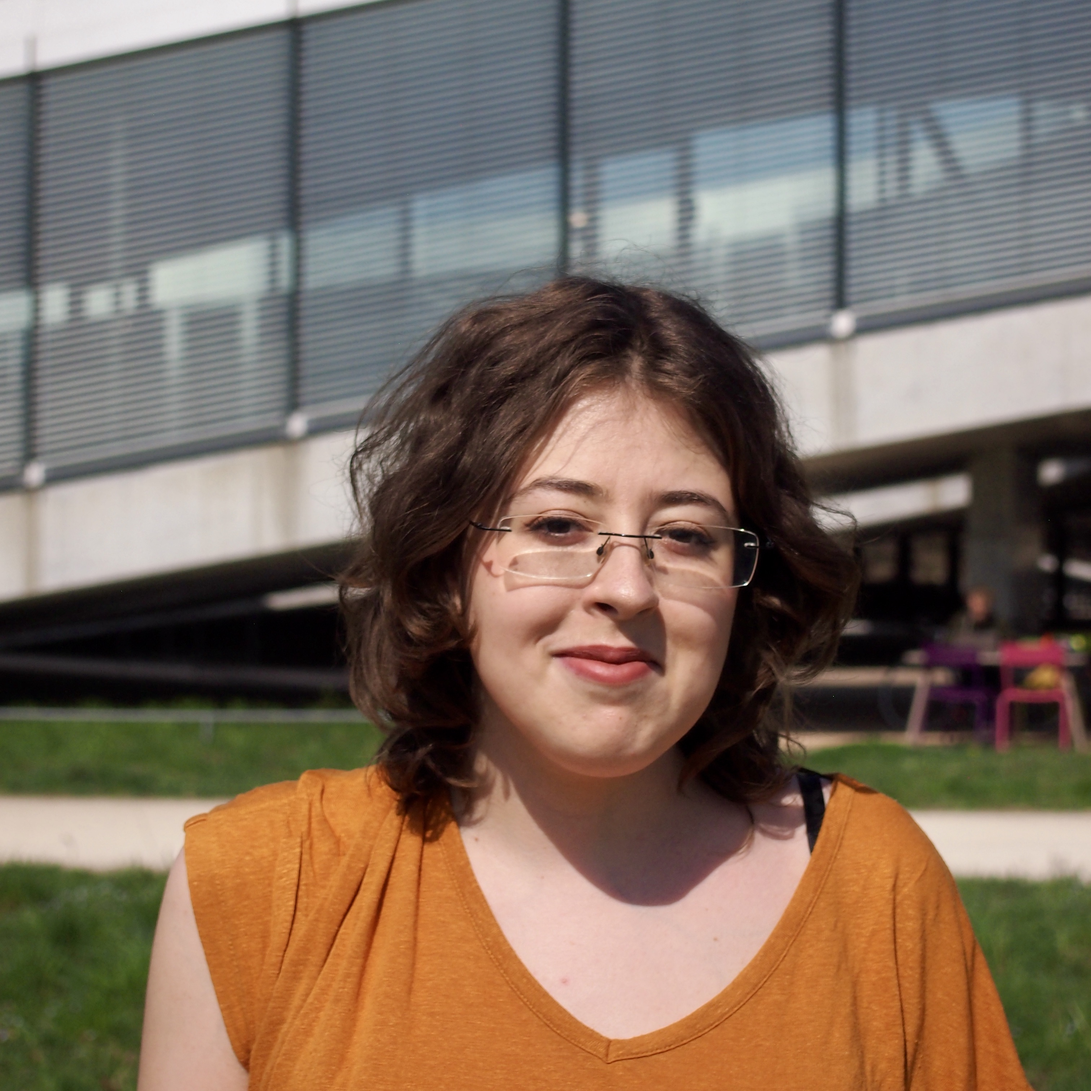
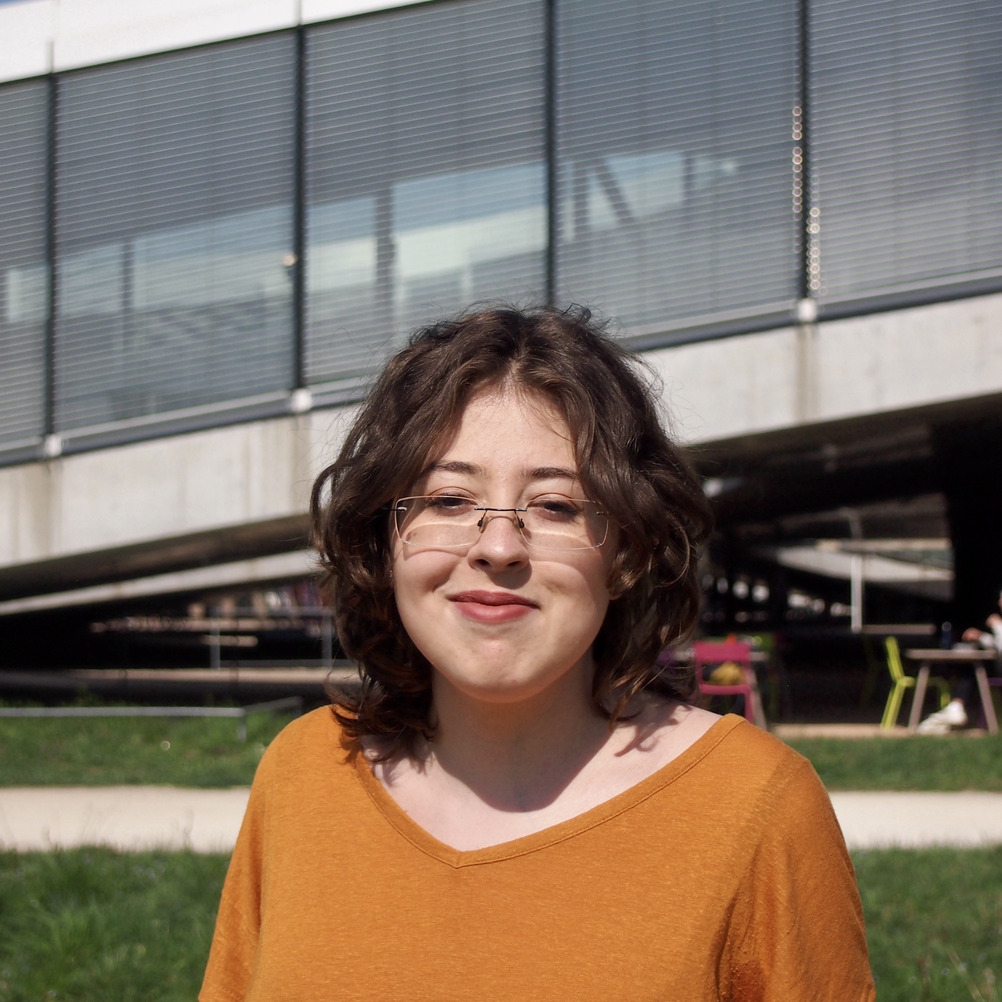
update committee pictures

diff --git a/index.html b/index.html
@@ -412,7 +412,7 @@ height: 600px;
 
         <div class="col-xs-6 col-sm-6 col-md-6 col-md-6 col-lg-3">
           <div class="team-block bottom">
-            <img src="img/team/mystery.jpeg" class="img-responsive" alt="img">
+            <img src="img/team-2022/Wei-En.jpeg" class="img-responsive" alt="img">
             <div class="team-content">
               <ul class="list-unstyled">
                 <li><a href="https://people.epfl.ch/wei-en.hsieh"><i class="fa fa-graduation-cap"></i></a></li>
